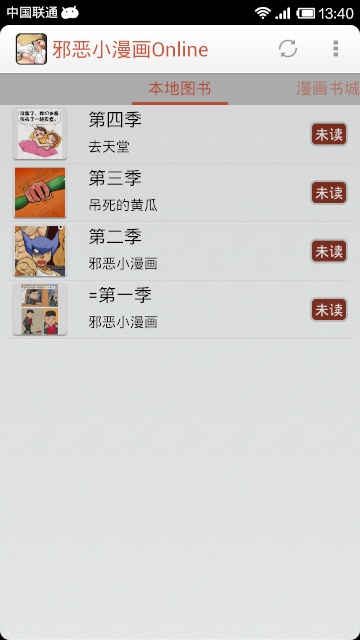
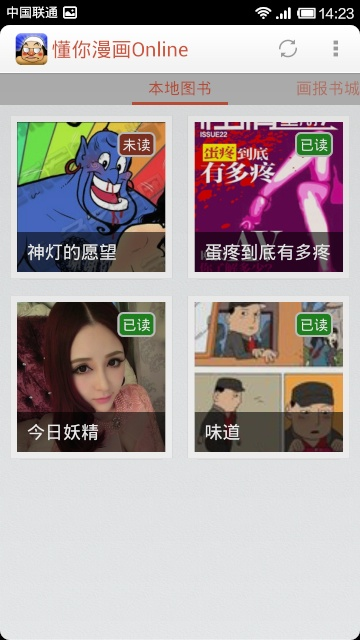
更新screenshot

diff --git a/src/com/cartoononline/CartoonSplashActivity.java b/src/com/cartoononline/CartoonSplashActivity.java
@@ -121,6 +121,15 @@ public class CartoonSplashActivity extends BaseActivity {
         super.onResume();
 
         mCacheManager.setCacheStrategy(mDefICacheStrategy);
+        
+        if (mCurPageIndex == 0) {
+            if (mItemsMap.containsKey(0)) {
+                Fragment f = mItemsMap.get(0);
+                if (f != null && f instanceof FragmentStatusInterface) {
+                    ((FragmentStatusInterface) f).onForceRefresh();
+                }
+            }
+        }
     }
 
     @Override

diff --git a/src/com/cartoononline/fragment/ReaderBookFragment.java b/src/com/cartoononline/fragment/ReaderBookFragment.java
@@ -353,7 +353,6 @@ public class ReaderBookFragment extends Fragment implements FragmentStatusInterf
 
     @Override
     public void onForceRefresh() {
-        // TODO Auto-generated method stub
-        
+        mHandler.sendEmptyMessage(NOTIFY_DATA_CHANGED);
     }
 }
